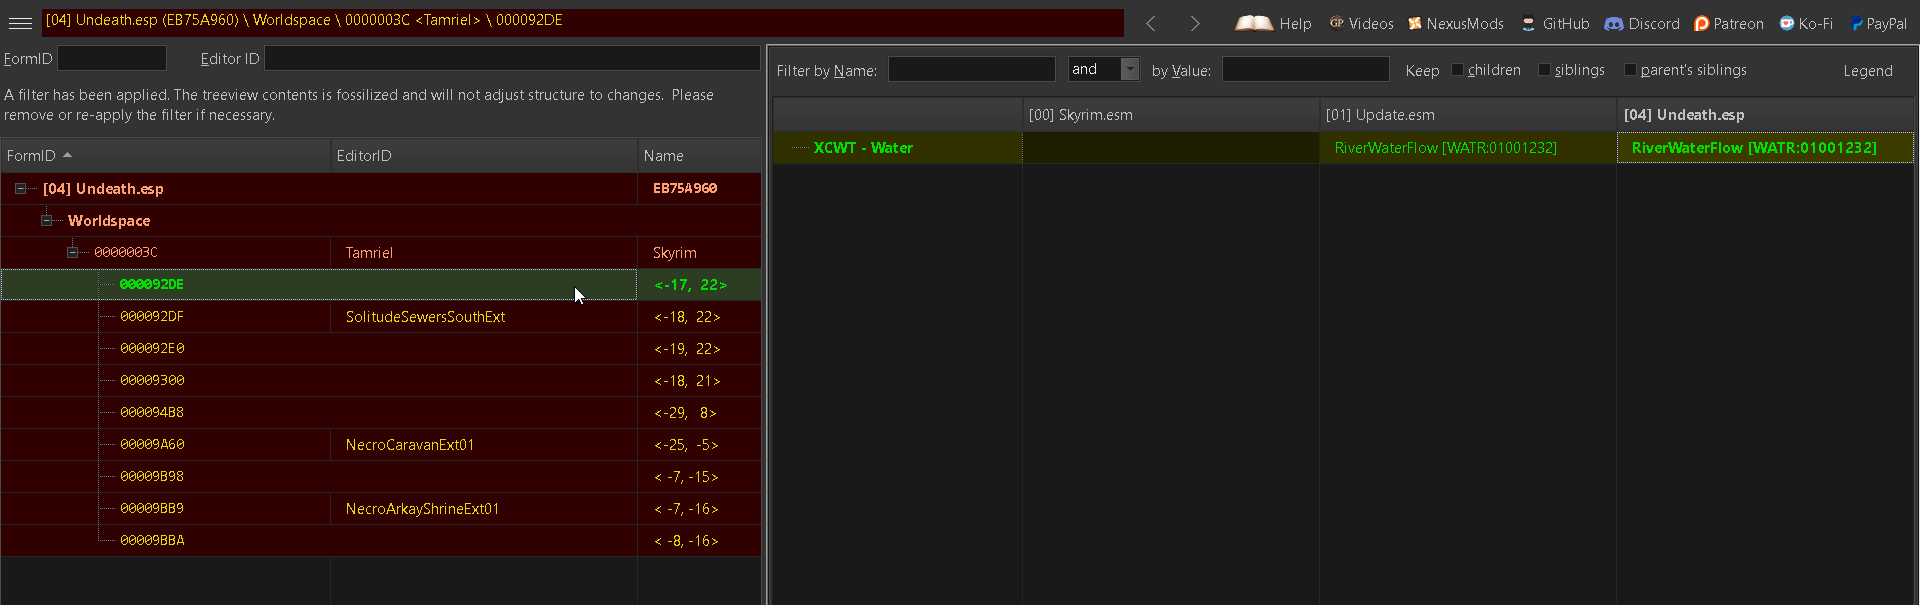
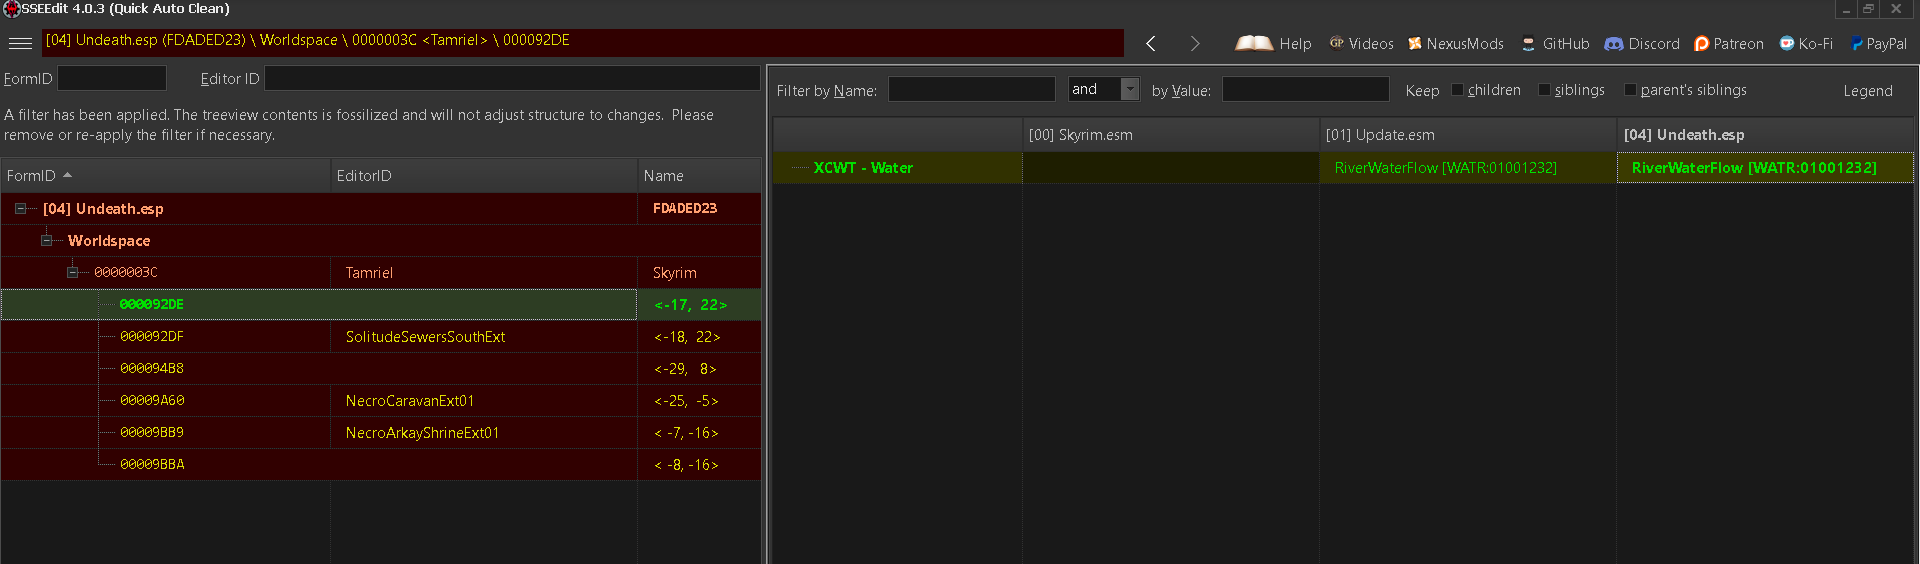
Format updates

Changed region(s): [[0.0, 0.0, 1.0, 0.9344], [0.1562, 0.6933, 0.25, 0.7837]]

diff --git a/index.md b/index.md
@@ -102,10 +102,10 @@ The Wild edits are now corrected, you can save the changes to the cleaned plugin
 3. Open `cell` record `00009B37` and scroll down to the subrecord `XCWT - Water`.Drag & Drop the value in the `XCWT - Water` subrecord from `Update.esm` into `MoonAndStar_MAS.esp`![image](pics/MAS-00009B37-XCWT.png)![image](pics/MAS-00009B37-XCWT-After.png)
 
 4. The following records also need the `XCWT - Water` subrecord value copied from `Update.esm` into `MoonAndStar_MAS.esp`.
-   - `00009B54`, `00009B55`, `00009B56`, `00009B57`, `00009B58`,
-   - `00009B75`, `00009B76`, `00009B77`, `00009B78`,
-   - `00009B97`, `00009B98`, `00009B99`, `00009B9A`, `00009B9B`,
-   - `00009BB8`, `00009BB9`, `00009BBA`, `00009BBB`,
+  - `00009B54`, `00009B55`, `00009B56`, `00009B57`, `00009B58`,
+  - `00009B75`, `00009B76`, `00009B77`, `00009B78`,
+  - `00009B97`, `00009B98`, `00009B99`, `00009B9A`, `00009B9B`,
+  - `00009BB8`, `00009BB9`, `00009BBA`, `00009BBB`,
 
 5. `00000D74` Drag and drop the `XCLR - Regions` subrecord from `Dawnguard.esm` on to the corresponding empty subrecord in `MoonAndStar_MAS.esp`.![image](pics/MAS-00000D74-before.png)![image](pics/MAS-00000D74-after.png)
 
@@ -117,16 +117,16 @@ The Wild edits are now corrected, you can save the changes to the cleaned plugin
 
 `Undeath.esp`
 
-Remove the following records:
+#### Remove the following records
 
    _Armor_
 
-   - `0003B5AB` SkinDragonPriest
-   - `000B799A` SkinSkeleton
-   - `0010CFE4` ClothesMonkRobesColorBrownHooded
-   - `0010CFEA` ClothesMonkRobesColorGreyHooded
-   - `0010CFEB` ClothesMonkRobesColorRedHooded
-   - `0010CFEC` ClothesMonkRobesColorGreenHooded
+  - `0003B5AB` SkinDragonPriest
+  - `000B799A` SkinSkeleton
+  - `0010CFE4` ClothesMonkRobesColorBrownHooded
+  - `0010CFEA` ClothesMonkRobesColorGreyHooded
+  - `0010CFEB` ClothesMonkRobesColorRedHooded
+  - `0010CFEC` ClothesMonkRobesColorGreenHooded
    
    ![image](pics/Undeath/Armor-Overview-Before.png)
    ![image](pics/Undeath/Armor-Overview-Remove.png)
@@ -135,34 +135,34 @@ Remove the following records:
 
   _Magic Effect_
 
-   - `0001CEAA` SummonFlameAtronach
-   - `0001CEAB` SummonFrostAtronach
-   - `0001CEAC` SummonStormAtronach
-   - `000640B4` SummonFamiliar
-   - `0006A154` MGRSummonArnielEffect
-   - `0007E5D2` SummonFlameThrall
-   - `0007E5D3` SummonFrostThrall
-   - `0007E5D4` SummonStormThrall
-   - `0007E8E0` ReanimateThrallFFAimed
-   - `000A88C8` dunRannveigSummonGhost
-   - `000CDECF` SummonFlameThrallPotent
-   - `000CDED0` SummonFrostThrallPotent
-   - `000CDED1` SummonStormThrallPotent
-   - `0010DDED` SummonDremoraLord
-   - `0010EE48` SummonFrostAtronachNPC
-   - `0010EE49` SummonStormAtronachNPC
-   - `0010FC12` SummonDragonPriest
-   - `01000840` EnchSummonFlameAtronach
-   - `01000841` EnchSummonFrostAtronach
-   - `01000842` EnchSummonStormAtronach
-   - `01000843` EnchSummonFlameThrall
-   - `01000844` EnchSummonFrostThrall
-   - `01000845` EnchSummonStormThrall
-   - `020045B5` SummonWrathman
-   - `020045BB` SummonMistman
-   - `020045BC` SummonBoneman
-   - `0200C601` DLC01SummonSoulHorseEffect
-   - `0200E7D7` DLC1nVampireBloodyGripCloakEffect
+  - `0001CEAA` SummonFlameAtronach
+  - `0001CEAB` SummonFrostAtronach
+  - `0001CEAC` SummonStormAtronach
+  - `000640B4` SummonFamiliar
+  - `0006A154` MGRSummonArnielEffect
+  - `0007E5D2` SummonFlameThrall
+  - `0007E5D3` SummonFrostThrall
+  - `0007E5D4` SummonStormThrall
+  - `0007E8E0` ReanimateThrallFFAimed
+  - `000A88C8` dunRannveigSummonGhost
+  - `000CDECF` SummonFlameThrallPotent
+  - `000CDED0` SummonFrostThrallPotent
+  - `000CDED1` SummonStormThrallPotent
+  - `0010DDED` SummonDremoraLord
+  - `0010EE48` SummonFrostAtronachNPC
+  - `0010EE49` SummonStormAtronachNPC
+  - `0010FC12` SummonDragonPriest
+  - `01000840` EnchSummonFlameAtronach
+  - `01000841` EnchSummonFrostAtronach
+  - `01000842` EnchSummonStormAtronach
+  - `01000843` EnchSummonFlameThrall
+  - `01000844` EnchSummonFrostThrall
+  - `01000845` EnchSummonStormThrall
+  - `020045B5` SummonWrathman
+  - `020045BB` SummonMistman
+  - `020045BC` SummonBoneman
+  - `0200C601` DLC01SummonSoulHorseEffect
+  - `0200E7D7` DLC1nVampireBloodyGripCloakEffect
 
    ![image](pics/Undeath/Magic-Overview-01-Before.png)
    ![image](pics/Undeath/Magic-Overview-02-Before.png)
@@ -175,25 +175,25 @@ Remove the following records:
 
   _Non-Player Character (Actor)_
 
-   - `0001E7CA` LvlWarlockNecromancer
-   - `0002D1DE` EncSkeleton01Melee1H
-   - `0002D1E0` EncSkeleton01Melee2H
-   - `0002D1FC` EncSkeleton01Missile
-   - `0002D1FD` EncSkeleton01Melee1Hshield
-   - `0003B547` EncDraugr01Template
-   - `0003BE1E` EncDraugr01TemplateMissile
-   - `000524E5` EncSkeleton01AmbushMelee1H
-   - `000548FE` EncWarlock01TemplateNecro
-   - `0005B752` EncDraugr01Template2H
-   - `000C3B1C` TreasCorpseSkeleton
-   - `000DA06B` EncSkeleton01AmbushMelee1HShield
-   - `02010E9B` DLC1lvlDragonIceLake
-   - `02011CD2` AudioTemplateVampireLord
-   - `020145A5` DLC1VQ02VampLordLoadDummy
-   - `0201A93D` DLC1HarkonCombat
-   - `0301E290` AudioTemplateWerebear
-   - `0303D588` AudioTemplateRiekling
-   - `0303D589` AudioTemplateRieklingQuiet
+  - `0001E7CA` LvlWarlockNecromancer
+  - `0002D1DE` EncSkeleton01Melee1H
+  - `0002D1E0` EncSkeleton01Melee2H
+  - `0002D1FC` EncSkeleton01Missile
+  - `0002D1FD` EncSkeleton01Melee1Hshield
+  - `0003B547` EncDraugr01Template
+  - `0003BE1E` EncDraugr01TemplateMissile
+  - `000524E5` EncSkeleton01AmbushMelee1H
+  - `000548FE` EncWarlock01TemplateNecro
+  - `0005B752` EncDraugr01Template2H
+  - `000C3B1C` TreasCorpseSkeleton
+  - `000DA06B` EncSkeleton01AmbushMelee1HShield
+  - `02010E9B` DLC1lvlDragonIceLake
+  - `02011CD2` AudioTemplateVampireLord
+  - `020145A5` DLC1VQ02VampLordLoadDummy
+  - `0201A93D` DLC1HarkonCombat
+  - `0301E290` AudioTemplateWerebear
+  - `0303D588` AudioTemplateRiekling
+  - `0303D589` AudioTemplateRieklingQuiet
    
    ![image](pics/Undeath/NPCs-Overview-Before.png)
    ![image](pics/Undeath/NPCs-Overview-Remove.png)
@@ -202,7 +202,7 @@ Remove the following records:
 
   _Perk_
 
-   - `00106092` doomRitualPerk
+  - `00106092` doomRitualPerk
 
    ![image](pics/Undeath/Perk-Overview-Before.png)
    ![image](pics/Undeath/Perk-Overview-Remove.png)
@@ -211,37 +211,37 @@ Remove the following records:
 
   _Spell_
 
-   - `000204C4` ConjureFrostAtronach
-   - `000204C5` ConjureStormAtronach
-   - `000211EF` DetectDead
-   - `000640B6` ConjureFamiliar
-   - `0007E8DF` DeadThrall
-   - `0007E8E4` Blizzard
-   - `00096D94` Revenant
-   - `0009BCCA` AbDragonPriest
-   - `000A1992` IceStormLeftHand
-   - `000ABDF3` ConjureFrostAtronachLeftHand
-   - `000BB967` ConjureFlameAtronachLeftHand
-   - `000BB968` ConjureStormAtronachLeftHand
-   - `000C969C` IceSpikeRightHand
-   - `000C969E` RaiseZombieLeftHand
-   - `000E1529` dunReanimateSelf
-   - `000E7329` doomRitualAbility
-   - `00100E75` ConjureFamiliarRightHand
-   - `00100E76` ConjureFlameAtronachRightHand
-   - `00100E77` ConjureFrostAtronachRightHand
-   - `00100E78` ConjureStormAtronachRightHand
-   - `0010DDEC` ConjureDremoraLord
-   - `0010FC16` ConjureDragonPriest
-   - `020038B7` DLC1VampiresGrip
-   - `020045B3` DLC1ConjureWrathman
-   - `020045B8` DLC1ConjureMistman
-   - `020045BA` DLC1ConjureBoneman
-   - `02016909` DLC1ConjureGargoyleLeftHand
-   - `0301CDF6` DLC2ConjureAshSpawn
-   - `03029F12` DLC2ConjureBardInstruments
-   - `03033C66` DLC2ConjureSeeker
-   - `0303D473` DLC2ConjureAshGuardianLeftHand
+  - `000204C4` ConjureFrostAtronach
+  - `000204C5` ConjureStormAtronach
+  - `000211EF` DetectDead
+  - `000640B6` ConjureFamiliar
+  - `0007E8DF` DeadThrall
+  - `0007E8E4` Blizzard
+  - `00096D94` Revenant
+  - `0009BCCA` AbDragonPriest
+  - `000A1992` IceStormLeftHand
+  - `000ABDF3` ConjureFrostAtronachLeftHand
+  - `000BB967` ConjureFlameAtronachLeftHand
+  - `000BB968` ConjureStormAtronachLeftHand
+  - `000C969C` IceSpikeRightHand
+  - `000C969E` RaiseZombieLeftHand
+  - `000E1529` dunReanimateSelf
+  - `000E7329` doomRitualAbility
+  - `00100E75` ConjureFamiliarRightHand
+  - `00100E76` ConjureFlameAtronachRightHand
+  - `00100E77` ConjureFrostAtronachRightHand
+  - `00100E78` ConjureStormAtronachRightHand
+  - `0010DDEC` ConjureDremoraLord
+  - `0010FC16` ConjureDragonPriest
+  - `020038B7` DLC1VampiresGrip
+  - `020045B3` DLC1ConjureWrathman
+  - `020045B8` DLC1ConjureMistman
+  - `020045BA` DLC1ConjureBoneman
+  - `02016909` DLC1ConjureGargoyleLeftHand
+  - `0301CDF6` DLC2ConjureAshSpawn
+  - `03029F12` DLC2ConjureBardInstruments
+  - `03033C66` DLC2ConjureSeeker
+  - `0303D473` DLC2ConjureAshGuardianLeftHand
 
    ![image](pics/Undeath/Spell-Overview-01-Before.png)
    ![image](pics/Undeath/Spell-Overview-02-Before.png)
@@ -249,6 +249,16 @@ Remove the following records:
    ![image](pics/Undeath/Spell-Overview-Remove-Yes.png)
    ![image](pics/Undeath/Spell-Overview-After.png)
 
+  _Worldspace_ _Cells_
+  
+  - `00007779` NecroMapMarkerCell01
+  - `000092E0`
+  - `00009300`
+  - `00009B98`
+
+   ![image](pics/Undeath/CELL-01-Overview-Before.png)
+   ![image](pics/Undeath/CELL-02-Overview-Before.png)
+   ![image](pics/Undeath/CELL-04-Overview-Before.png)
 Edit the following records:
 
 The `XCWT - Water` subrecord value in `Undeath.esp` must be changed to match the value in `Update.esm`.
@@ -289,6 +299,7 @@ The `XCWT - Water` subrecord value in `Undeath.esp` must be changed to match the
    ![image](pics/Undeath/Waterflow-Remove-After.png)
 
    ![image](pics/Undeath/Waterflow-Overview-After-All.png)
+
 
 The Wild edits are now corrected, you can save the changes to the cleaned plugin with `ctrl+s` or when prompted before exiting SSEEdit.
 
